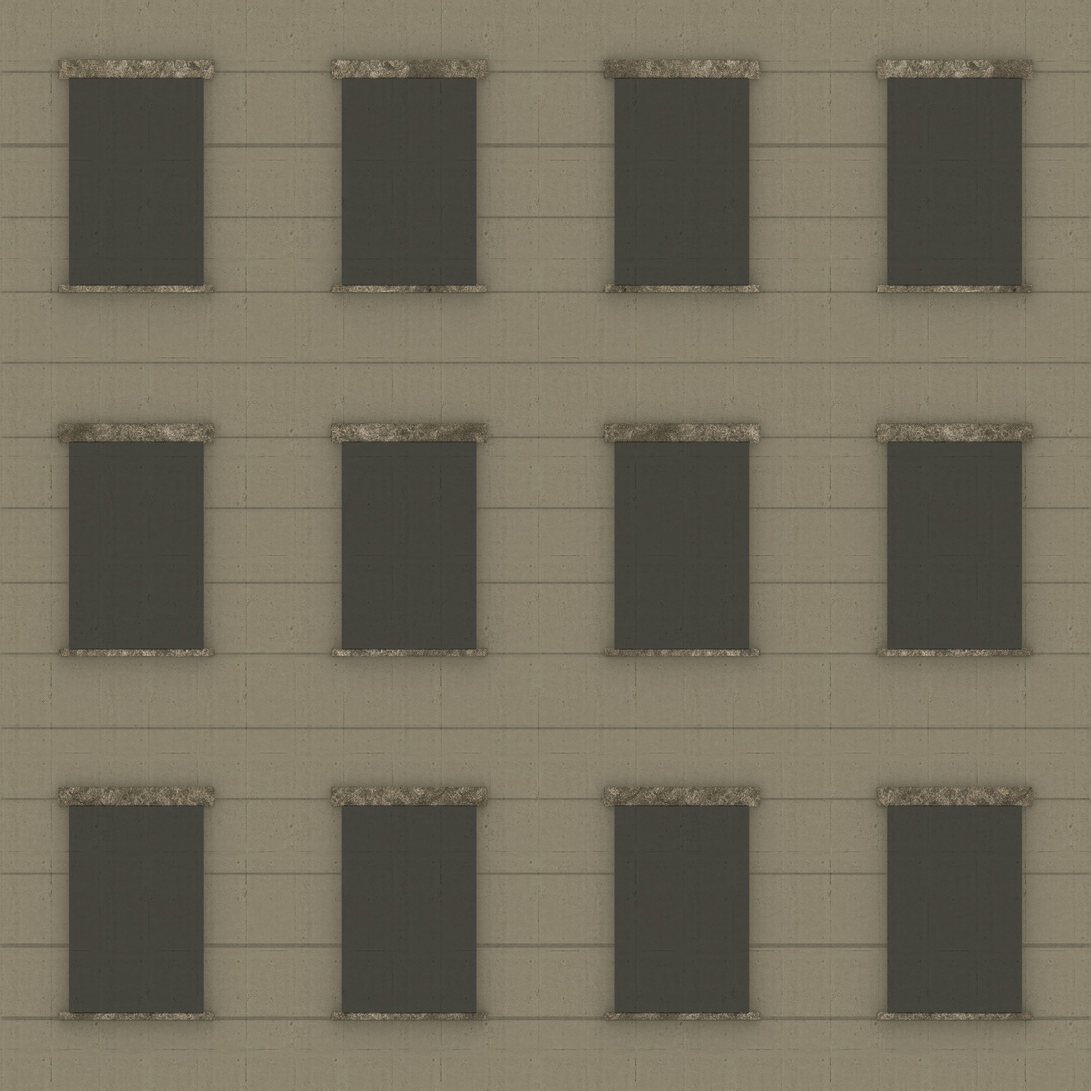
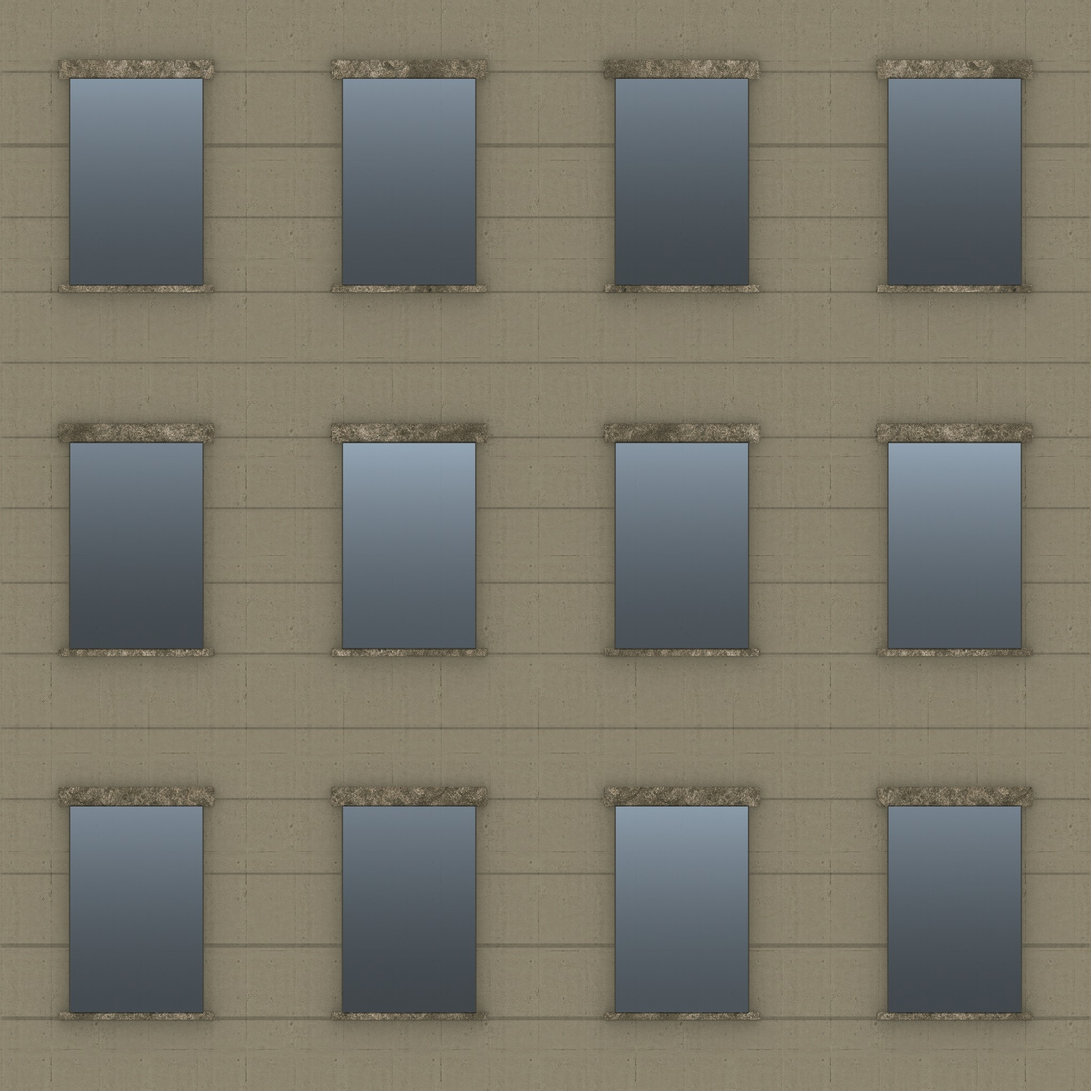
Facades: daylight glass in the colour maps (sky reflected, a tone per pane) for far off and low tier
Claude-Session: https://claude.ai/code/session_014HfPc7P92bPsgM5hoRnpsa

diff --git a/Tools/foundry/gen/facades.py b/Tools/foundry/gen/facades.py
@@ -25,7 +25,8 @@ import export
 M = mats.get
 OUT = os.path.join(export.REPO, "Web", "art", "facades")
 TARGETS = ["facade_office", "facade_glass", "facade_flats", "facade_civic",
-           "facadewin_office", "facadewin_glass", "facadewin_flats", "facadewin_civic"]
+           "facadewin_office", "facadewin_glass", "facadewin_flats", "facadewin_civic",
+           "facadeglaze_office", "facadeglaze_glass", "facadeglaze_flats", "facadeglaze_civic"]
 OCCL = []          # what stands in front of the glass (balcony fronts, laundry): kept out of the mask
 WINS = []          # every window opening (x0, z0, w, h) in metres, for the interior-mapping mask
 # metres covered by one texture (whole bays x whole floors) - FACADE_PHOTOS sizes in konto.html
@@ -268,8 +269,38 @@ def write_winmask(style, W, H, px=1024):
     print("  -> Web/art/facades/%s_win.png (%d openings)" % (style, len(WINS)))
 
 
+def glaze(style):
+    """Daylight glass in the colour map: what a pane shows from the street when interior mapping is not drawing it (far off,
+    or switched off) is the sky and the street reflected, lighter at the top, a little different in every pane."""
+    from PIL import Image
+    cp = os.path.join(OUT, style + "_color.jpg")
+    col = np.asarray(Image.open(cp).convert("RGB"), np.float32) / 255
+    n = col.shape[0]
+    w = np.asarray(Image.open(os.path.join(OUT, style + "_win.png")).convert("RGBA").resize((n, n), Image.NEAREST), np.float32) / 255
+    m = (w[..., 3] > 0.02).astype(np.float32)
+    v = w[..., 1]                                   # 0 at the sill, 1 at the head
+    rng = np.random.default_rng(sum(map(ord, style)))
+    # one tone per opening: the opening is the run of glass a pixel sits in, along its row and down its column
+    def run_start(mm):
+        idx = np.arange(mm.shape[1])[None, :].repeat(mm.shape[0], 0)
+        st = np.where((mm > 0) & (np.pad(mm, ((0, 0), (1, 0)))[:, :-1] == 0), idx, 0)
+        return np.maximum.accumulate(st, axis=1)
+    cx = run_start(m)
+    cy = run_start(m.T).T
+    h = np.sin(cx * 12.9898 + cy * 78.233) * 43758.5453
+    h = h - np.floor(h)
+    sky_top, sky_low = np.array([0.62, 0.70, 0.78]), np.array([0.30, 0.34, 0.38])
+    tone = sky_low + (sky_top - sky_low) * (v[..., None] ** 1.5)
+    tone = tone * (0.7 + 0.45 * h[..., None])
+    out = col * (1 - m[..., None]) + (col * 0.25 + tone * 0.75) * m[..., None]
+    Image.fromarray((np.clip(out, 0, 1) * 255 + 0.5).astype(np.uint8)).save(cp, quality=90)
+    print("  -> glazed %s_color.jpg" % style)
+
+
 def build(which):
     style = which.split("_", 1)[1]
+    if which.startswith("facadeglaze_"):
+        return glaze(style)
     W, H = SIZES[style]
     rng = random.Random(sum(map(ord, style)))
     parts, glass = [], []
@@ -354,6 +385,7 @@ def build(which):
     # the lit map: room light seen through the glass, with the warm/cool colour and a falloff from the ceiling
     lit = lights * (0.75 + 0.25 * col.mean(-1, keepdims=True))
     save(out, os.path.join(OUT, style + "_color.jpg"))
+    glaze(style)
     save(nor, os.path.join(OUT, style + "_normal.jpg"))
     save(np.repeat(rough[..., None], 3, -1), os.path.join(OUT, style + "_rough.jpg"))
     save(lit, os.path.join(OUT, style + "_lights.jpg"))
